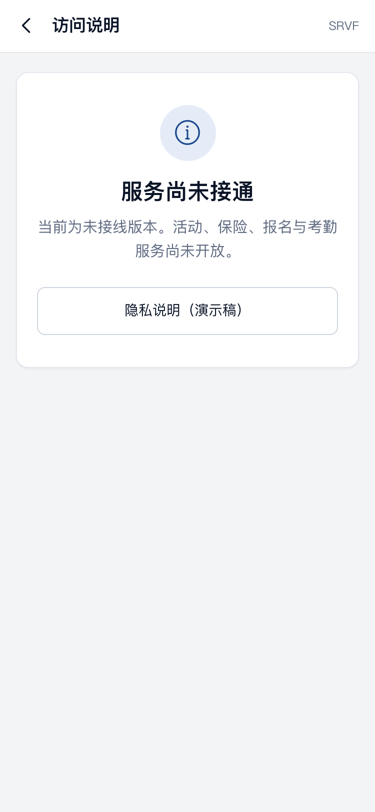
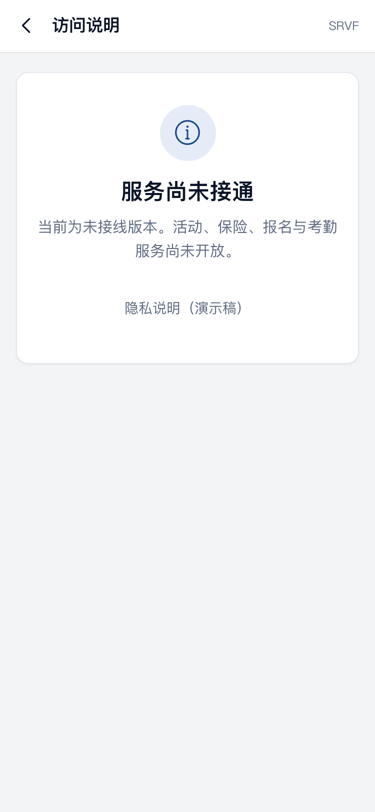
修正未接线页隐私链接的脚注样式
通栏宽度收回为居中小字脚注；此前证据截图取自未重建的
unconfigured 构建，重新截图替换。不涉及逻辑。

Generated with [Devin](https://devin.ai)

Changed region(s): [[0.3227, 0.3695, 0.6453, 0.4002]]

diff --git a/src/styles/base.css b/src/styles/base.css
@@ -616,6 +616,8 @@ h3,
   color: var(--srvf-fg-default);
 }
 .state-actions > .state-footnote {
+  width: auto;
+  justify-self: center;
   min-height: var(--srvf-touch);
   display: inline-flex;
   align-items: center;
